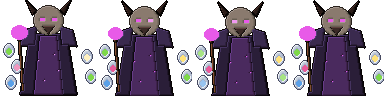
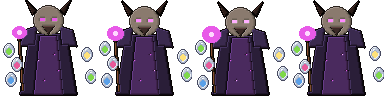
Boss retouchés : Vhaeryx dessiné à la main, ailes qui battent, vers et limons
- Vhaeryx : ses fioles flottent chacune à son rythme et bouillonnent, l'orbe du sceptre pulse,
  les runes de sa robe s'allument tour à tour.
- Vhaeryx dragon : il bat des ailes, son ventre se gonfle, sa queue balance, sa tête suit,
  le souffle couve dans sa gueule et de la fumée sort de ses naseaux.
- Animateur automatique : les ailes marquées 'aile' battent autour de leur attache
  (drakes, drakônides, dragonnets, Vorra) ; nouveaux profils 'ondule' (Gharul, ver mineur,
  tentacule) et 'gelee' (Limon primordial, limon mineur).

Claude-Session: https://claude.ai/code/session_01S2oFucAsw2AAdqgmzFPX5K

diff --git a/tools/pixel/ennemis_acte2.py b/tools/pixel/ennemis_acte2.py
@@ -2,7 +2,7 @@
 Palette de l'acte : noir et pourpre de la citadelle, écailles chromatiques, vert toxique des fioles.
 Les sprites regardent vers la gauche (vers le héros)."""
 import os
-from sprites import Sprite
+from sprites import BATTEMENT, RESPIRE, Sprite, danse
 
 DEST = os.path.normpath(os.path.join(os.path.dirname(os.path.abspath(__file__)), '..', '..', 'public', 'assets'))
 
@@ -14,8 +14,10 @@ PEAU_GOB = '#7AA84A'
 
 
 def aile(s, pts, membrane=VIOLET, os_=NOIR2):
-    s.poly(pts, membrane)
-    s.line(pts[:2], os_, width=1)
+    """Une aile : le premier point est l'attache sur le dos (l'animateur la fait battre autour)."""
+    with s.marque('aile'):
+        s.poly(pts, membrane)
+        s.line(pts[:2], os_, width=1)
 
 
 def dragonnet(couleur=NOIR, aile_c=VIOLET):
@@ -324,48 +326,82 @@ def vashka():
 
 # ---------- Vhaeryx ----------
 
-def vhaeryx():
-    """Phase 1 : l'alchimiste à forme humaine, entouré de fioles."""
+def vhaeryx(f=0):
+    """Phase 1 : l'alchimiste à forme humaine, entouré de fioles.
+    f = image de l'animation (0 à 3) : il respire, ses fioles flottent autour de lui chacune à son rythme
+    et bouillonnent, l'orbe de son sceptre pulse et les runes de sa robe s'allument."""
     s = Sprite(96, 96)
-    s.poly([(30, 34), (66, 34), (76, 94), (20, 94)], '#2A1E38')  # grande robe
-    s.poly([(40, 36), (56, 36), (62, 94), (34, 94)], '#4A2A5E')
-    s.dots([(38, 60), (58, 70), (44, 80), (54, 54)], '#E85AE8', glow=True)
-    s.poly([(24, 30), (36, 26), (34, 44), (20, 46)], '#3A2A4E')  # épaulières
-    s.poly([(72, 30), (60, 26), (62, 44), (76, 46)], '#3A2A4E')
-    s.ellipse(34, 6, 62, 34, '#8A7A6E')  # tête
-    s.poly([(36, 10), (26, 0), (32, 14)], '#2A1C18')  # cornes
-    s.poly([(60, 10), (70, 0), (64, 14)], '#2A1C18')
-    s.rect(40, 18, 44, 20, '#E85AE8', glow=True)
-    s.rect(52, 18, 56, 20, '#E85AE8', glow=True)
-    s.poly([(42, 26), (54, 26), (48, 34)], '#3A2A26')  # barbe
-    for (x, y, c) in ((4, 44, TOXIQUE), (12, 60, '#E85A9A'), (6, 76, '#5AA0E8'), (82, 50, JAUNE), (86, 70, TOXIQUE)):
-        s.ellipse(x, y, x + 9, y + 12, '#C9D2DE')
-        s.ellipse(x + 2, y + 4, x + 7, y + 10, c, glow=True)
-    s.line([(18, 34), (22, 90)], '#5A3822', width=2)  # sceptre
-    s.ellipse(12, 26, 26, 38, '#E85AE8', glow=True)
+    b = RESPIRE[f]
+    s.poly([(30, 34 + b), (66, 34 + b), (76, 94), (20, 94)], '#2A1E38')  # grande robe
+    s.poly([(40, 36 + b), (56, 36 + b), (62, 94), (34, 94)], '#4A2A5E')
+    runes = [(38, 60), (58, 70), (44, 80), (54, 54)]
+    s.dots([r for k, r in enumerate(runes) if k != f], '#E85AE8', glow=True)
+    s.dots([runes[f]], '#FFB0FF', glow=True)
+    with s.bouge(0, b):
+        s.poly([(24, 30), (36, 26), (34, 44), (20, 46)], '#3A2A4E')  # épaulières
+        s.poly([(72, 30), (60, 26), (62, 44), (76, 46)], '#3A2A4E')
+        s.ellipse(34, 6, 62, 34, '#8A7A6E')  # tête
+        s.poly([(36, 10), (26, 0), (32, 14)], '#2A1C18')  # cornes
+        s.poly([(60, 10), (70, 0), (64, 14)], '#2A1C18')
+        yeux = ['#E85AE8', '#FF8AFF', '#FFB0FF', '#FF8AFF'][f]
+        s.rect(40, 18, 44, 20, yeux, glow=True)
+        s.rect(52, 18, 56, 20, yeux, glow=True)
+        s.poly([(42, 26), (54, 26), (48, 34)], '#3A2A26')  # barbe
+        s.line([(18, 34), (22, 90)], '#5A3822', width=2)  # sceptre
+        g = [0, 1, 2, 1][f]
+        s.ellipse(12 - g, 26 - g, 26 + g, 38 + g, '#E85AE8', glow=True)
+        s.ellipse(17, 30, 21, 34, '#FFD8FF', glow=True)
+    # les fioles flottent autour de lui, chacune à son rythme, et bouillonnent
+    for k, (x, y, c) in enumerate(((4, 44, TOXIQUE), (12, 60, '#E85A9A'), (6, 76, '#5AA0E8'), (82, 50, JAUNE), (86, 70, TOXIQUE))):
+        dy = [0, -2, -3, -2][(f + k) % 4]
+        with s.bouge(0, dy):
+            s.ellipse(x, y, x + 9, y + 12, '#C9D2DE')
+            s.ellipse(x + 2, y + 4, x + 7, y + 10, c, glow=True)
+            s.dots([(x + 3 + (f + k) % 3, y + 2 - (f + k) % 2)], '#FFFFFF', glow=True)  # bulle
     return s.render()
 
 
-def vhaeryx_dragon():
-    """Phases 2 et 3 : le dragon chromatique."""
+def vhaeryx_dragon(f=0):
+    """Phases 2 et 3 : le dragon chromatique.
+    f = image de l'animation (0 à 3) : il bat des ailes, respire, balance la queue
+    et son souffle couve dans sa gueule."""
     s = Sprite(96, 96)
-    s.poly([(44, 26), (84, 0), (94, 42), (62, 46)], '#4A2A6E')  # aile
-    s.poly([(50, 30), (82, 8), (88, 38), (62, 42)], '#6A4A8E')
-    s.poly([(60, 64), (94, 80), (90, 86), (60, 72)], '#3A7A8E')  # queue
-    s.ellipse(26, 36, 72, 76, '#3A7A8E')  # corps
-    s.ellipse(32, 52, 60, 72, '#C84A6E')  # ventre
-    s.rect(32, 70, 40, 94, '#2A4A5E')
+    b = RESPIRE[f]
+    k = BATTEMENT[f]
+
+    def battre(pts):  # l'aile bat autour de son attache (le premier point)
+        rx, ry = pts[0]
+        return [(x, round(ry + (y - ry) * k)) for x, y in pts]
+
+    with s.bouge(0, b):
+        s.poly(battre([(44, 26), (84, 0), (94, 42), (62, 46)]), '#4A2A6E')  # aile
+        s.poly(battre([(50, 30), (82, 8), (88, 38), (62, 42)]), '#6A4A8E')
+        s.line(battre([(44, 26), (84, 0)]), '#2A1A3E', width=2)
+    q = [0, 2, 4, 2][f]  # la queue balance
+    s.poly([(60, 64), (94, 80 + q), (90, 86 + q), (60, 72)], '#3A7A8E')  # queue
+    s.rect(32, 70, 40, 94, '#2A4A5E')  # pattes (fixes)
     s.rect(56, 70, 64, 94, '#2A4A5E')
-    s.poly([(16, 26), (36, 30), (34, 48), (18, 46)], '#4AA84A')  # cou vert
-    s.ellipse(0, 12, 28, 34, '#C8402A')  # tête rouge
-    s.poly([(0, 22), (10, 22), (10, 32), (2, 30)], '#8E2A1E')
-    s.poly([(14, 12), (20, 0), (24, 14)], '#E6C89A')
-    s.poly([(20, 14), (30, 4), (30, 18)], '#E6C89A')
-    s.rect(8, 18, 11, 20, JAUNE, glow=True)
-    s.dots([(40, 44), (52, 40), (62, 50), (46, 58)], '#5AA0E8', glow=True)  # écailles bleues
-    s.dots([(38, 60), (66, 58)], '#B8843A', glow=True)
-    s.ellipse(0, 30, 10, 40, '#E85AE8', glow=True)  # souffle
-    s.ellipse(2, 32, 7, 37, FEU, glow=True)
+    with s.bouge(0, b):
+        s.ellipse(26, 36, 72, 76, '#3A7A8E')  # corps
+        v = [0, 1, 2, 1][f]
+        s.ellipse(32 - v, 52 - v, 60 + v, 72, '#C84A6E')  # ventre qui se gonfle
+        s.dots([(40, 44), (52, 40), (62, 50), (46, 58)], '#5AA0E8', glow=True)  # écailles bleues
+        s.dots([(38, 60), (66, 58)], '#B8843A', glow=True)
+    t = [0, 1, 2, 1][f]  # la tête suit, un peu plus fort
+    with s.bouge(0, t):
+        s.poly([(16, 26), (36, 30), (34, 48), (18, 46)], '#4AA84A')  # cou vert
+        s.ellipse(0, 12, 28, 34, '#C8402A')  # tête rouge
+        s.poly([(0, 22), (10, 22), (10, 32), (2, 30)], '#8E2A1E')
+        s.poly([(14, 12), (20, 0), (24, 14)], '#E6C89A')
+        s.poly([(20, 14), (30, 4), (30, 18)], '#E6C89A')
+        s.rect(8, 18, 11, 20, JAUNE, glow=True)
+        # le souffle couve dans la gueule
+        g = [0, 1, 2, 1][f]
+        s.ellipse(0, 30 - g, 10 + g, 40 + g, '#E85AE8', glow=True)
+        s.poly(danse([(0, 34), (2, 28), (4, 32), (6, 26), (9, 34), (5, 38)], f, 1.5), FEU, glow=True)
+        s.ellipse(2, 32, 7, 37, JAUNE, glow=True)
+    # fumée qui s'échappe des naseaux
+    s.dots([(2 + (j + f) % 2, 10 - 3 * ((j + f) % 4)) for j in range(2)], '#8A7A8E', glow=True)
     return s.render()
 
 

diff --git a/tools/pixel/sprites.py b/tools/pixel/sprites.py
@@ -39,6 +39,17 @@ class Sprite:
         self.parts = []  # (couleur, lumineux, ombré)
         self.dx = self.dy = 0  # décalage des formes suivantes (pour animer)
         self.journal = []  # les formes dessinées, pour que l'animateur automatique les rejoue
+        self.etiquette = None  # ce que sont les formes suivantes ('aile'…), pour l'animateur
+
+    @contextmanager
+    def marque(self, etiquette):
+        """Marque les formes dessinées dans le bloc (par exemple 'aile' : l'animateur la fait battre)."""
+        avant = self.etiquette
+        self.etiquette = etiquette
+        try:
+            yield
+        finally:
+            self.etiquette = avant
 
     @contextmanager
     def bouge(self, dx=0, dy=0):
@@ -69,23 +80,23 @@ class Sprite:
                         self.part[Y][X] = pid
 
     def poly(self, pts, color, **kw):
-        self.journal.append(('poly', pts, color, kw, {}, self.dx, self.dy))
+        self.journal.append(('poly', pts, color, kw, {}, self.dx, self.dy, self.etiquette))
         self._stamp(lambda d: d.polygon(pts, fill=1), color, **kw)
 
     def rect(self, x0, y0, x1, y1, color, **kw):
-        self.journal.append(('rect', (x0, y0, x1, y1), color, kw, {}, self.dx, self.dy))
+        self.journal.append(('rect', (x0, y0, x1, y1), color, kw, {}, self.dx, self.dy, self.etiquette))
         self._stamp(lambda d: d.rectangle([x0, y0, x1, y1], fill=1), color, **kw)
 
     def ellipse(self, x0, y0, x1, y1, color, **kw):
-        self.journal.append(('ellipse', (x0, y0, x1, y1), color, kw, {}, self.dx, self.dy))
+        self.journal.append(('ellipse', (x0, y0, x1, y1), color, kw, {}, self.dx, self.dy, self.etiquette))
         self._stamp(lambda d: d.ellipse([x0, y0, x1, y1], fill=1), color, **kw)
 
     def line(self, pts, color, width=1, **kw):
-        self.journal.append(('line', pts, color, kw, {'width': width}, self.dx, self.dy))
+        self.journal.append(('line', pts, color, kw, {'width': width}, self.dx, self.dy, self.etiquette))
         self._stamp(lambda d: d.line(pts, fill=1, width=width), color, **kw)
 
     def dots(self, pts, color, **kw):
-        self.journal.append(('dots', pts, color, kw, {}, self.dx, self.dy))
+        self.journal.append(('dots', pts, color, kw, {}, self.dx, self.dy, self.etiquette))
         self._stamp(lambda d: [d.point(p, fill=1) for p in pts], color, **kw)
 
     def render(self):
@@ -317,6 +328,7 @@ def vulkhar(f=0):
 # Animations « marquées », comme le feu de camp : 4 images en boucle.
 RESPIRE = [0, 1, 2, 1]  # le haut du corps descend puis remonte (en pixels)
 FLAMME = [0, -2, 1, -1]  # les pointes de flammes montent et descendent
+BATTEMENT = [1, 0.7, 0.4, 0.7]  # les ailes se replient à moitié puis se déploient
 
 
 def danse(pts, f, amp=1):
@@ -345,7 +357,9 @@ def _boite(kind, geom):
 def anime_auto(fn, profil='sol'):
     """Anime un sprite déjà dessiné, sans le redessiner : rejoue ses formes image par image.
     - profil 'sol' : le haut du corps respire (descend de 2 pixels), le bas (pattes, socle) reste au sol ;
-      'vol' : tout le sprite flotte ; 'fixe' : rien ne bouge (un œuf, un objet).
+      'vol' : tout le sprite flotte ; 'fixe' : rien ne bouge (un œuf, un objet) ;
+      'ondule' : le corps se balance de gauche à droite, plus fort en haut qu'à la base (ver, tentacule) ;
+      'gelee' : le corps s'écrase et s'élargit puis se redresse, posé au sol (limon).
     - Dans tous les cas, les formes lumineuses vivent : les pointes des flammes dansent,
       les grandes lueurs pulsent, les fissures et les petits éclats brillent tour à tour.
     Renvoie une fonction f -> image, à donner à planche() ou apercu_gif()."""
@@ -356,10 +370,27 @@ def anime_auto(fn, profil='sol'):
     haut = min(b[1] for b in boites)
     sol = max(b[3] for b in boites)
     seuil = sol - 0.28 * (sol - haut)  # en dessous : les pattes, qui ne bougent pas
+    gauche = min(b[0] for b in boites)
+    droite = max(b[2] for b in boites)
+    milieu = (gauche + droite) / 2
+
+    def deforme(pts, f):
+        """Déplace chaque point selon le profil 'ondule' ou 'gelee'."""
+        out = []
+        for x, y in pts:
+            if profil == 'ondule':
+                hauteur = max(0, (sol - y) / max(1, sol - haut))  # 0 à la base, 1 en haut
+                x += round([0, 1, 0, -1][f] * 3 * hauteur)
+            else:  # gelée : écrasée en f = 2
+                ky = [1, 0.94, 0.88, 0.94][f]
+                y = sol - (sol - y) * ky
+                x = milieu + (x - milieu) * (2 - ky)
+            out.append((round(x), round(y)))
+        return out
 
     def image(f):
         s = Sprite(src.w, src.h)
-        for i, ((kind, geom, color, kw, extra, ox, oy), (x0, y0, x1, y1)) in enumerate(zip(journal, boites)):
+        for i, ((kind, geom, color, kw, extra, ox, oy, tag), (x0, y0, x1, y1)) in enumerate(zip(journal, boites)):
             if profil == 'vol':
                 dy = [1, 0, -1, 0][f]
             elif profil == 'sol':
@@ -367,6 +398,19 @@ def anime_auto(fn, profil='sol'):
             else:
                 dy = 0
             phase = (f + i) % 4
+            if profil in ('ondule', 'gelee'):
+                if kind in ('rect', 'ellipse'):
+                    (ax, ay), (bx, by) = deforme([(x0, y0), (x1, y1)], f)
+                    geom = (ax, ay, bx, by)
+                    x0, y0, x1, y1 = geom
+                else:
+                    geom = deforme(geom, f)
+            if tag == 'aile' and kind in ('poly', 'line'):
+                # l'aile bat autour de son attache (son premier point, celui qui touche le dos) :
+                # elle se replie à moitié puis se déploie
+                rx, ry = geom[0]
+                k = BATTEMENT[f]
+                geom = [(x, round(ry + (y - ry) * k)) for x, y in geom]
             if kw.get('glow'):
                 if kind == 'poly' and y1 - y0 >= 4:
                     geom = danse(geom, f + i, 1.5 if y1 - y0 >= 10 else 1)

diff --git a/tools/pixel/animations.py b/tools/pixel/animations.py
@@ -6,6 +6,7 @@ Lancer depuis tools/pixel/ : python3 animations.py"""
 import os
 from demoniste_sprites import demoniste, diablotin, molosse_infernal, paladin, pretre, rodeur, seigneur_infernal, succube, voleur
 from ennemis import etincelle, molosse
+from ennemis_acte2 import vhaeryx, vhaeryx_dragon
 from sprites import anime_auto, apercu_gif, guerrier, mage, planche, vulkhar
 
 DEST = os.path.normpath(os.path.join(os.path.dirname(os.path.abspath(__file__)), '..', '..', 'public', 'assets'))
@@ -28,13 +29,18 @@ ANIMES = {
     'ennemi_molosse': (molosse, 4, False, 6),
     'ennemi_etincelle': (etincelle, 4, False, 8),
     'ennemi_vulkhar': (vulkhar, 4, True, 4),
+    'ennemi_vhaeryx': (vhaeryx, 4, False, 4),
+    'ennemi_vhaeryx_dragon': (vhaeryx_dragon, 4, False, 4),
 }
 
 # Les autres ennemis sont animés automatiquement (anime_auto) : on leur donne juste un profil.
-# 'sol' par défaut ; 'vol' pour ceux qui flottent ; 'fixe' pour ceux qui ne bougent pas.
+# 'sol' par défaut ; 'vol' pour ceux qui flottent ; 'fixe' pour ceux qui ne bougent pas ;
+# 'ondule' pour les vers et les tentacules ; 'gelee' pour les limons.
 PROFILS = {
     'eclat': 'vol', 'rejeton': 'vol', 'vorra': 'vol',
     'oeuf': 'fixe', 'oeuf_skarn': 'fixe', 'oeuf_vashka': 'fixe',
+    'gharul': 'ondule', 'ver_mineur': 'ondule', 'tentacule': 'ondule',
+    'limon': 'gelee', 'limon_mineur': 'gelee',
 }
 # Les copies : même dessin qu'un autre ennemi.
 COPIES = {'mimique_2': 'mimique', 'mehkar_copie': 'mehkar'}

diff --git a/tools/pixel/acte3.py b/tools/pixel/acte3.py
@@ -244,8 +244,9 @@ def vorra():
     s.rect(18, 9, 20, 11, '#7EF0B0', glow=True)
     s.rect(25, 9, 27, 11, '#7EF0B0', glow=True)
     s.poly([(16, 2), (20, -2), (24, 2), (28, -2), (32, 2)], OR_C)
-    s.poly([(30, 18), (46, 10), (44, 26)], '#C8E8F0')  # ailes translucides
-    s.poly([(18, 18), (2, 10), (4, 26)], '#C8E8F0')
+    with s.marque('aile'):
+        s.poly([(30, 18), (46, 10), (44, 26)], '#C8E8F0')  # ailes translucides
+        s.poly([(18, 18), (2, 10), (4, 26)], '#C8E8F0')
     s.dots([(6, 34), (10, 30), (40, 34), (36, 38)], '#7EF0B0', glow=True)  # chant de soin
     return s.render()
 

diff --git a/docs/DIRECTION_ARTISTIQUE.md b/docs/DIRECTION_ARTISTIQUE.md
@@ -140,7 +140,7 @@ Le style est **marqué, comme le feu de camp** : 4 images en boucle, 0,2 s par i
 - sa fonction de dessin prend le numéro de l'image `f` (0 à 3) ; l'image 0 sert aussi d'image fixe (archives, fiches) ;
 - `s.bouge(dx, dy)` décale un groupe de formes, `danse(points, f)` fait danser les pointes d'une flamme, `RESPIRE[f]` donne le décalage de la respiration ;
 - on l'ajoute à `ANIMES` dans `tools/pixel/animations.py` (qui exporte la planche `anim_<nom>.png` et un GIF d'aperçu dans `assets/essais/`) et dans `ANIMES` de `src/ui.ts`.
-- **les ennemis sont animés automatiquement** : `anime_auto` rejoue les formes du sprite (le haut du corps respire, les pattes restent au sol, les flammes dansent, la magie pulse). Il suffit de leur donner un profil dans `PROFILS` (`sol` par défaut, `vol`, `fixe`) et de relancer `python3 animations.py`. Un boss peut ensuite recevoir une animation dessinée à la main (comme Vulkhar), qui remplace l'automatique ;
+- **les ennemis sont animés automatiquement** : `anime_auto` rejoue les formes du sprite (le haut du corps respire, les pattes restent au sol, les flammes dansent, la magie pulse). Il suffit de leur donner un profil dans `PROFILS` (`sol` par défaut, `vol`, `fixe`, `ondule` pour les vers et tentacules, `gelee` pour les limons) et de relancer `python3 animations.py`. Les ailes dessinées dans un bloc `with s.marque('aile'):` (premier point = l'attache sur le dos) battent toutes seules : c'est le cas de la fonction `aile()` de l'acte 2. Un boss peut ensuite recevoir une animation dessinée à la main (comme Vulkhar), qui remplace l'automatique ;
 - **un nouvel ennemi** : l'ajouter au `SPRITES` de son acte, puis lancer `python3 animations.py` depuis `tools/pixel/`. Le test `tests/animations.test.ts` échoue si un ennemi ou une classe jouable n'a pas sa planche.
 
 ---

diff --git a/tools/pixel/README.md b/tools/pixel/README.md
@@ -74,6 +74,8 @@ Puis l'ajouter à `ANIMES` dans `animations.py` et lancer `python3 animations.py
 
 ### Les ennemis : animation automatique
 
-Les ennemis n'ont pas besoin d'être redessinés : `anime_auto(fn, profil)` rejoue les formes de leur sprite image par image. Le haut du corps respire, le bas (pattes, socle) reste au sol, les pointes des flammes dansent et les grandes lueurs pulsent. Profils : `sol` (par défaut), `vol` (tout le sprite flotte), `fixe` (seules les lueurs vivent). Ils sont réglés dans `PROFILS` de `animations.py`.
+Les ennemis n'ont pas besoin d'être redessinés : `anime_auto(fn, profil)` rejoue les formes de leur sprite image par image. Le haut du corps respire, le bas (pattes, socle) reste au sol, les pointes des flammes dansent et les grandes lueurs pulsent. Profils : `sol` (par défaut), `vol` (tout le sprite flotte), `fixe` (seules les lueurs vivent), `ondule` (le corps se balance, plus fort en haut : vers, tentacules), `gelee` (le corps s'écrase et s'élargit : limons).
+
+**Les ailes battent toutes seules** si on les dessine dans un bloc `with s.marque('aile'):`, le premier point du polygone étant l'attache sur le dos. Ils sont réglés dans `PROFILS` de `animations.py`.
 
 **Après avoir ajouté un ennemi**, lancer `python3 animations.py` : sa planche `anim_ennemi_<nom>.png` est créée. Sans elle, `tests/animations.test.ts` échoue.
